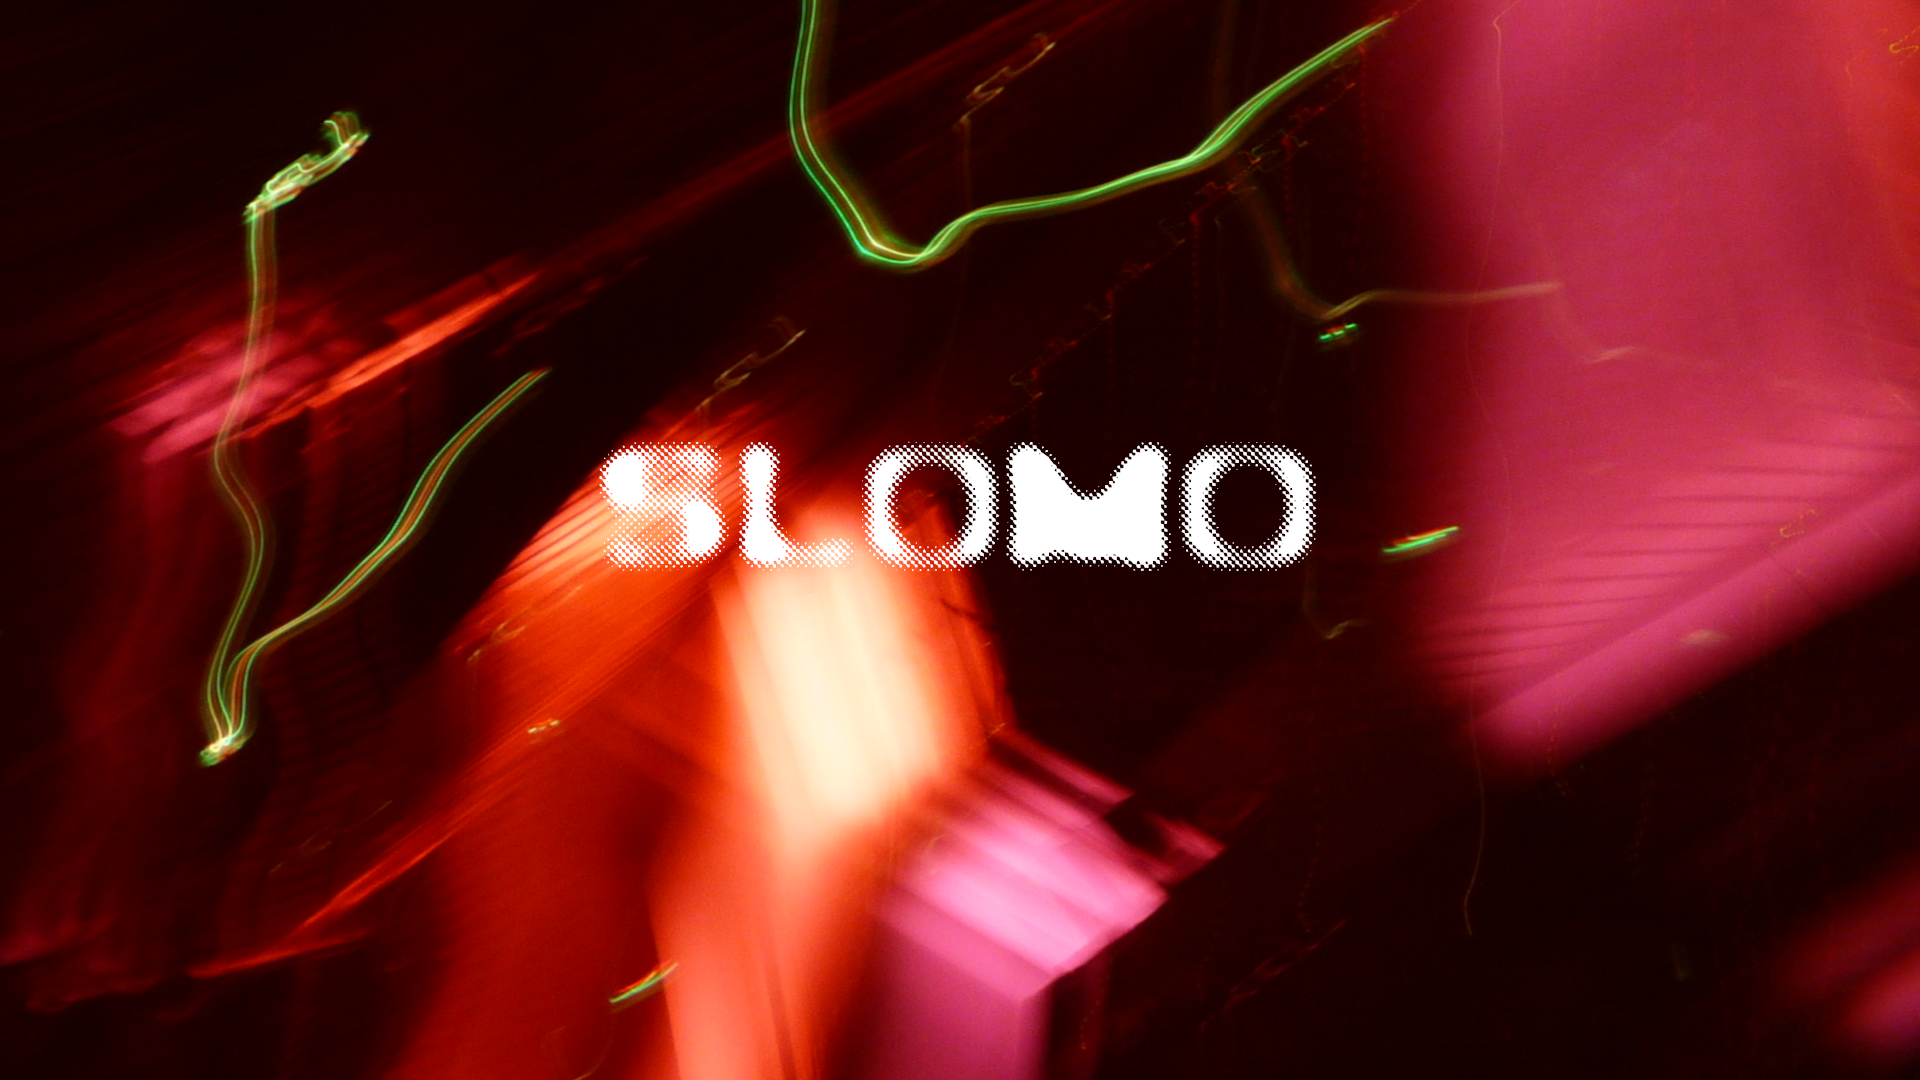
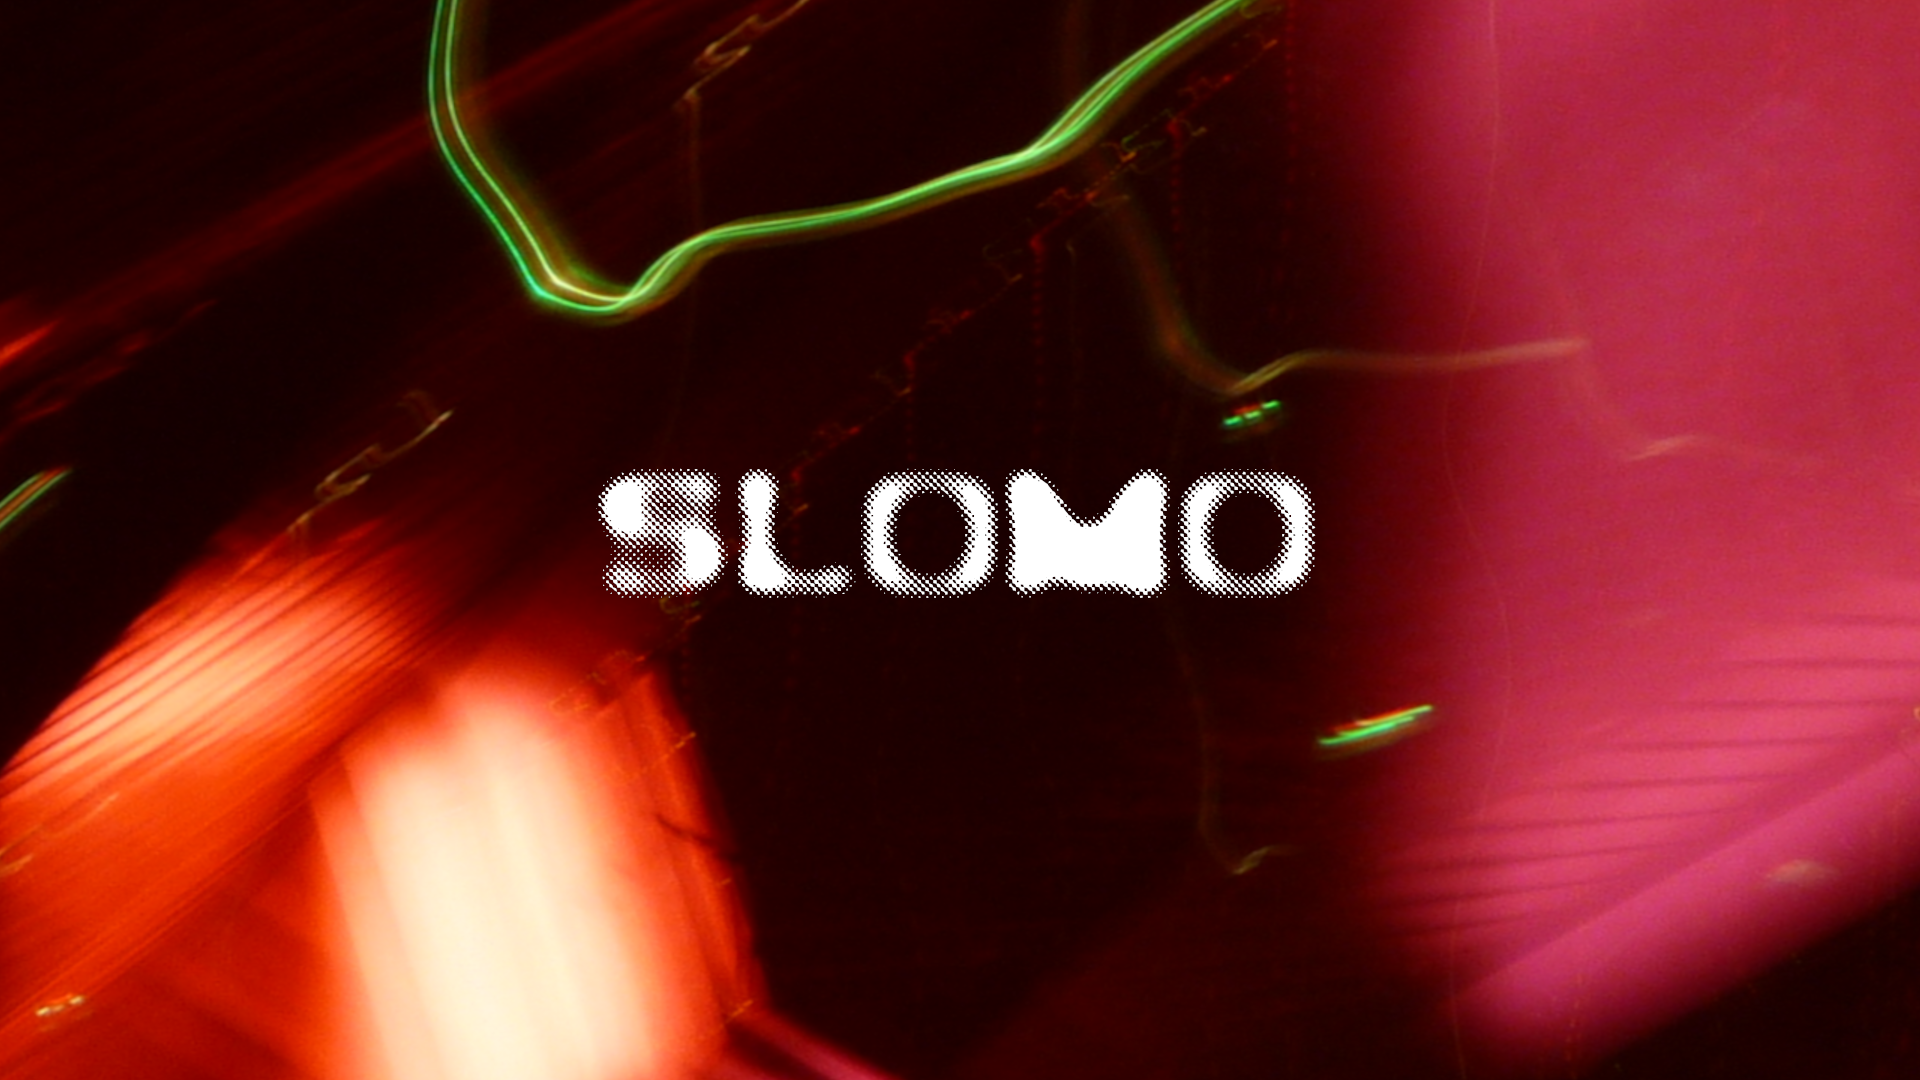
UPDATE

diff --git a/index.html b/index.html
@@ -1,7 +1,7 @@
 <!DOCTYPE html>
 <html>
 <head>
-<title>W3.CSS Template</title>
+<title>SLOMO</title>
 <meta charset="UTF-8">
 <meta name="viewport" content="width=device-width, initial-scale=1">
 <link rel="stylesheet" href="https://www.w3schools.com/w3css/4/w3.css">
@@ -36,24 +36,24 @@ body, html {
       <a href="#about" class="w3-button w3-block w3-black">ABOUT</a>
     </div>
     <div class="w3-col s3">
-      <a href="#menu" class="w3-button w3-block w3-black">MENU</a>
+      <a href="#menu" class="w3-button w3-block w3-black">NEWS</a>
     </div>
     <div class="w3-col s3">
-      <a href="#where" class="w3-button w3-block w3-black">WHERE</a>
+      <a href="#where" class="w3-button w3-block w3-black">CONTACT</a>
     </div>
   </div>
 </div>
 
 <!-- Header with image -->
-<header class="bgimg w3-display-container w3-grayscale-min" id="home">
+<header class="bgimg w3-display-container" id="home">
   <div class="w3-display-bottomleft w3-center w3-padding-large w3-hide-small">
-    <span class="w3-tag">Open from 6am to 5pm</span>
+    <span class="w3-tag"></span>
   </div>
   <div class="w3-display-middle w3-center">
     <span class="w3-text-white" style="font-size:90px"><br></span>
   </div>
   <div class="w3-display-bottomright w3-center w3-padding-large">
-    <span class="w3-text-white">15 Adr street, 5015</span>
+    <span class="w3-text-white"></span>
   </div>
 </header>
 
@@ -63,16 +63,15 @@ body, html {
 <!-- About Container -->
 <div class="w3-container" id="about">
   <div class="w3-content" style="max-width:700px">
-    <h5 class="w3-center w3-padding-64"><span class="w3-tag w3-wide">ABOUT THE lABEL</span></h5>
+    <h5 class="w3-center w3-padding-64"><span class="w3-tag w3-wide">ABOUT THE LABEL</span></h5>
     <p>The Label was started by Finn Martin to create an outlet for local bands and artists to release their music not only on the digital norms of today but on physical media such as CD.</p>
     <p>We pride oursleves on looking out for artists. We want you to be successful.</p>
     <div class="w3-panel w3-leftbar w3-light-grey">
-      <p><i>"Use products from nature for what it's worth - but never too early, nor too late." Fresh is the new sweet.</i></p>
-      <p>Chef, Coffeeist and Owner: Liam Brown</p>
+      <p><i>"A label for the artists"</i></p>
+      <p>Amy McAree : Drummer, Sheela</p>
     </div>
-    <img src="bg.png" style="width:100%;max-width:1000px" class="w3-margin-top">
-    <p><strong>Opening hours:</strong> everyday from 6am to 5pm.</p>
-    <p><strong>Address:</strong> 15 Adr street, 5015, NY</p>
+    <img src="amydrumming.jpg" style="width:100%;max-width:1000px" class="w3-margin-top">
+    <p><strong>Sheela: </strong>Recording debut single with Finn Martin</p>
   </div>
 </div>
 
@@ -80,68 +79,58 @@ body, html {
 <div class="w3-container" id="menu">
   <div class="w3-content" style="max-width:700px">
  
-    <h5 class="w3-center w3-padding-48"><span class="w3-tag w3-wide">THE MENU</span></h5>
-  
+    <h5 class="w3-center w3-padding-48"><span class="w3-tag w3-wide">NEWS</span></h5>
     <div class="w3-row w3-center w3-card w3-padding">
       <a href="javascript:void(0)" onclick="openMenu(event, 'Eat');" id="myLink">
-        <div class="w3-col s6 tablink">Eat</div>
+        <div class="w3-col s6 tablink">Coming Up</div>
       </a>
       <a href="javascript:void(0)" onclick="openMenu(event, 'Drinks');">
-        <div class="w3-col s6 tablink">Drink</div>
+        <div class="w3-col s6 tablink">Releases</div>
       </a>
     </div>
 
     <div id="Eat" class="w3-container menu w3-padding-48 w3-card">
-      <h5>Bread Basket</h5>
-      <p class="w3-text-grey">Assortment of fresh baked fruit breads and muffins 5.50</p><br>
+      <h5>Sheela - Polish Cocaine</h5>
+      <p class="w3-text-grey">Sheela debut single out 13th October</p><br>
     
-      <h5>Honey Almond Granola with Fruits</h5>
-      <p class="w3-text-grey">Natural cereal of honey toasted oats, raisins, almonds and dates 7.00</p><br>
+      <h5>Sheela </h5>
+      <p class="w3-text-grey"></p><br>
     
-      <h5>Belgian Waffle</h5>
-      <p class="w3-text-grey">Vanilla flavored batter with malted flour 7.50</p><br>
+      <h5></h5>
+      <p class="w3-text-grey"></p><br>
     
-      <h5>Scrambled eggs</h5>
-      <p class="w3-text-grey">Scrambled eggs, roasted red pepper and garlic, with green onions 7.50</p><br>
+      <h5></h5>
+      <p class="w3-text-grey"></p><br>
     
-      <h5>Blueberry Pancakes</h5>
-      <p class="w3-text-grey">With syrup, butter and lots of berries 8.50</p>
+      <h5></h5>
+      <p class="w3-text-grey"></p>
     </div>
 
     <div id="Drinks" class="w3-container menu w3-padding-48 w3-card">
-      <h5>Coffee</h5>
-      <p class="w3-text-grey">Regular coffee 2.50</p><br>
+      <h5></h5>
+      <p class="w3-text-grey"></p><br>
     
-      <h5>Chocolato</h5>
-      <p class="w3-text-grey">Chocolate espresso with milk 4.50</p><br>
+      <h5></h5>
+      <p class="w3-text-grey"></p><br>
     
-      <h5>Corretto</h5>
-      <p class="w3-text-grey">Whiskey and coffee 5.00</p><br>
+      <h5></h5>
+      <p class="w3-text-grey"></p><br>
     
-      <h5>Iced tea</h5>
-      <p class="w3-text-grey">Hot tea, except not hot 3.00</p><br>
+      <h5></h5>
+      <p class="w3-text-grey"></p><br>
     
-      <h5>Soda</h5>
-      <p class="w3-text-grey">Coke, Sprite, Fanta, etc. 2.50</p>
+      <h5></h5>
+      <p class="w3-text-grey"></p>
     </div>  
-    <img src="/w3images/coffeehouse2.jpg" style="width:100%;max-width:1000px;margin-top:32px;">
   </div>
 </div>
 
 <!-- Contact/Area Container -->
 <div class="w3-container" id="where" style="padding-bottom:32px;">
   <div class="w3-content" style="max-width:700px">
-    <h5 class="w3-center w3-padding-48"><span class="w3-tag w3-wide">WHERE TO FIND US</span></h5>
-    <p>Find us at some address at some place.</p>
-    <img src="/w3images/map.jpg" class="w3-image" style="width:100%">
-    <p><span class="w3-tag">FYI!</span> We offer full-service catering for any event, large or small. We understand your needs and we will cater the food to satisfy the biggerst criteria of them all, both look and taste.</p>
-    <p><strong>Reserve</strong> a table, ask for today's special or just send us a message:</p>
-    <form action="/action_page.php" target="_blank">
-      <p><input class="w3-input w3-padding-16 w3-border" type="text" placeholder="Name" required name="Name"></p>
-      <p><input class="w3-input w3-padding-16 w3-border" type="number" placeholder="How many people" required name="People"></p>
-      <p><input class="w3-input w3-padding-16 w3-border" type="datetime-local" placeholder="Date and time" required name="date" value="2020-11-16T20:00"></p>
-      <p><input class="w3-input w3-padding-16 w3-border" type="text" placeholder="Message \ Special requirements" required name="Message"></p>
-      <p><button class="w3-button w3-black" type="submit">SEND MESSAGE</button></p>
+    <h5 class="w3-center w3-padding-48"><span class="w3-tag w3-wide">CONTACT US</span></h5>
+    <p>Email Label Manager Finn at finn@slomorecords.com</p>
+
     </form>
   </div>
 </div>
@@ -151,7 +140,7 @@ body, html {
 
 <!-- Footer -->
 <footer class="w3-center w3-light-grey w3-padding-48 w3-large">
-  <p>Powered by <a href="https://www.w3schools.com/w3css/default.asp" title="W3.CSS" target="_blank" class="w3-hover-text-green">w3.css</a></p>
+  <p>All Rights Reserved Slomo Records 2023</p>
 </footer>
 
 <script>
